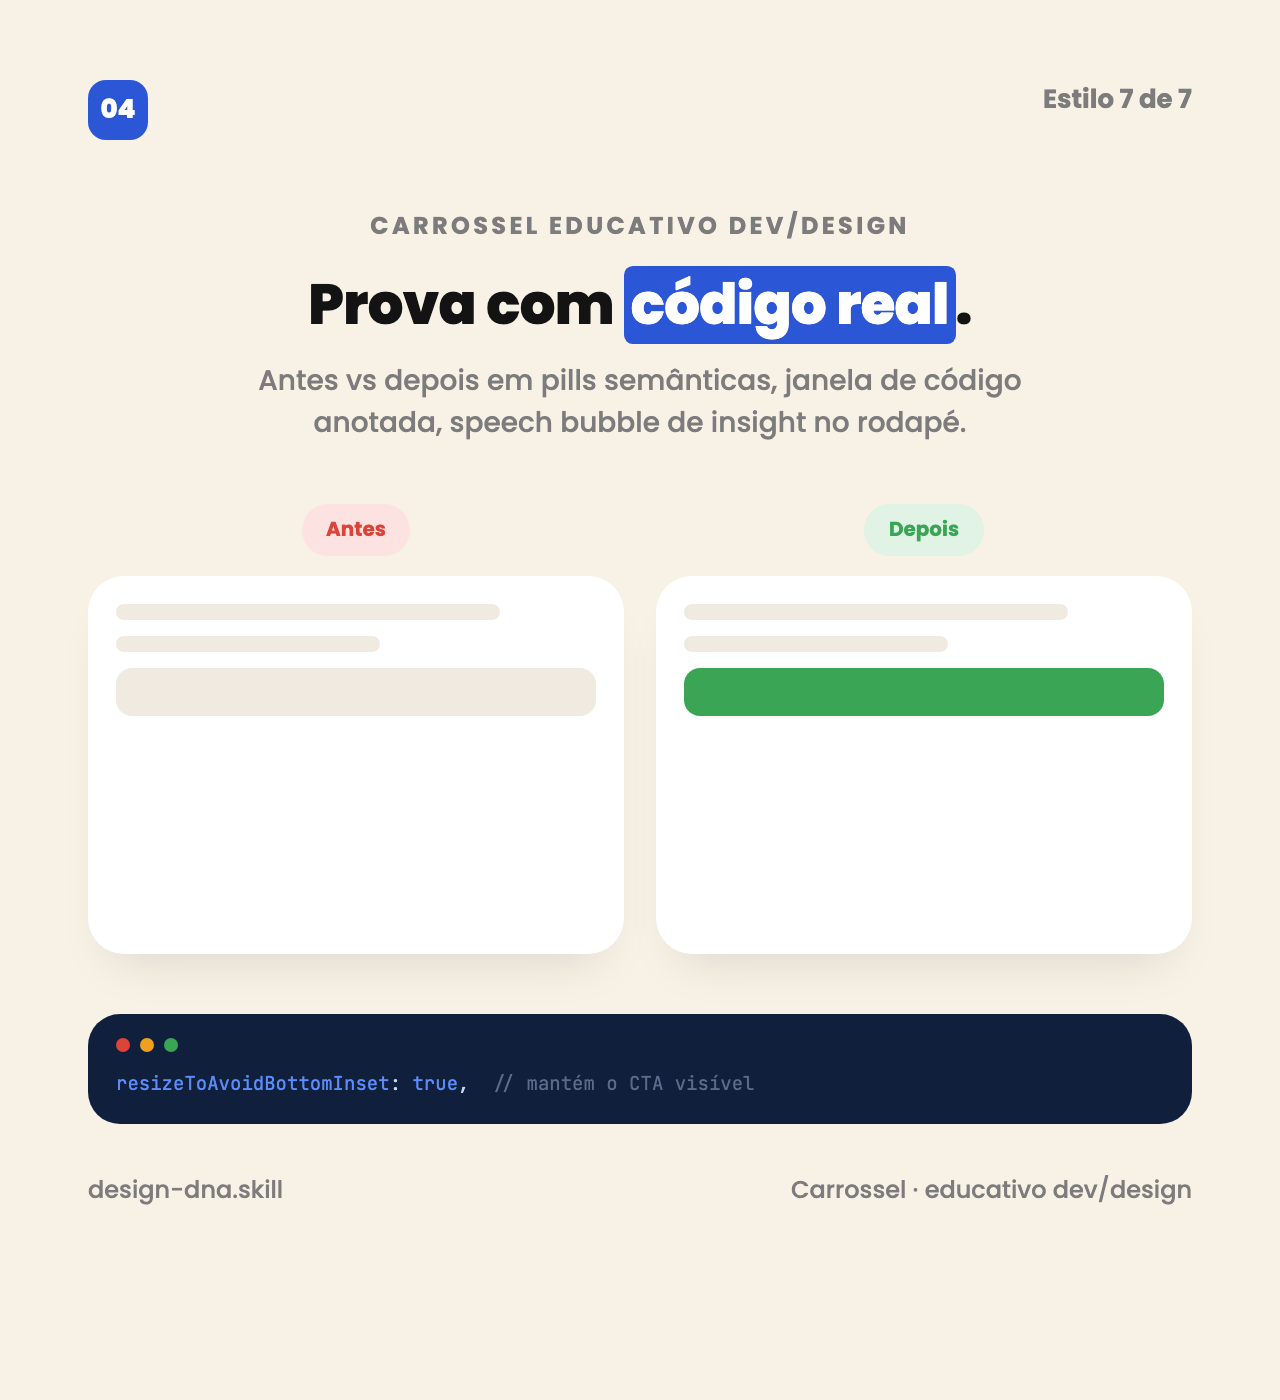
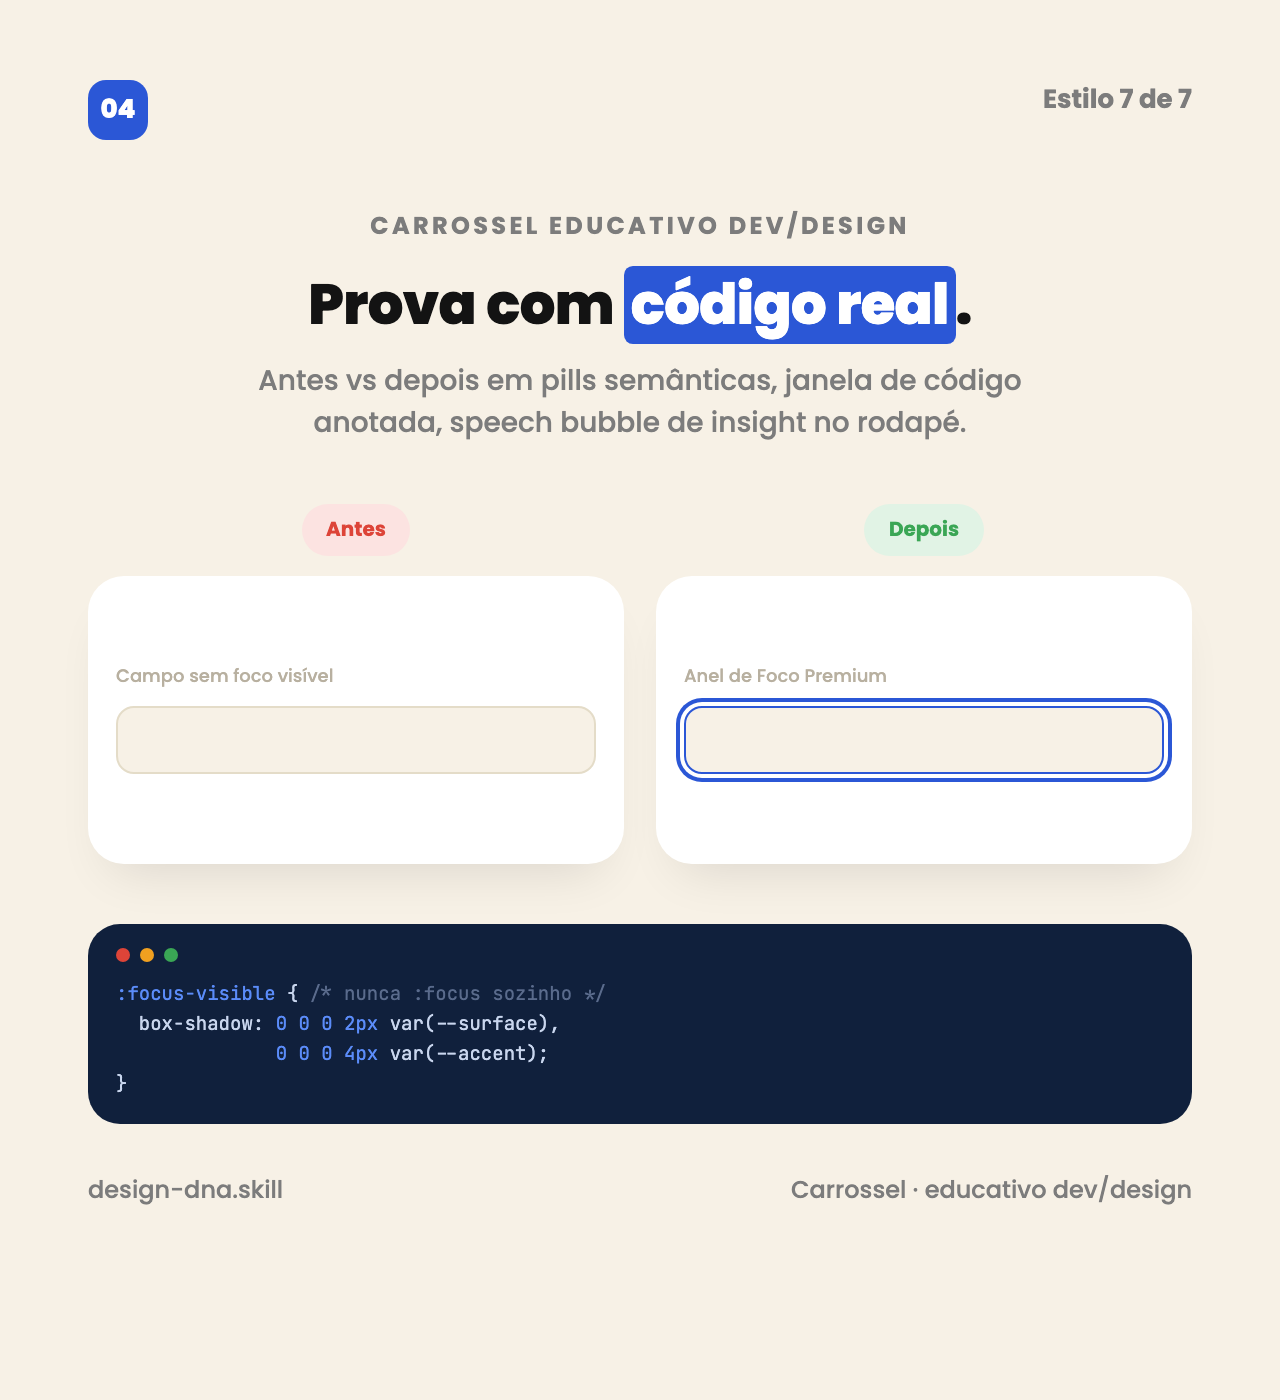
Add anti-copy rule and live component gallery
SKILL.md ganha uma regra explícita: as fichas de posts originais em
references/<estilo>.md são citação por trás dos tokens, nunca conteúdo
a recriar. Toda prova de capacidade da skill deve extrair a técnica e
aplicar a um cenário real e original, com código de verdade por trás.

README agora lidera com 6 GIFs animados (Playwright + ffmpeg, sem
crédito de geração gasto) de componentes reais de
references/componentes-premium.md — Botão Assinatura, Anel de Foco,
Esqueleto Espelho, Toast Empilhado, Spotlight de Borda, Bento Grid —
cada um aplicado num contexto novo, não numa recriação de referência.

Também corrige dois cards do galeria de estilos (dev-tutorial-code-
showcase e dev-carousel-explainer) que mimetizavam quase literalmente
o conteúdo de posts de referência específicos (upload 68%, checkout
Flutter); agora usam exemplos originais com código real da skill.

diff --git a/README.md b/README.md
@@ -2,7 +2,7 @@
 
 ![design-dna](assets/banner.png)
 
-**Skill do [Claude Code](https://claude.com/claude-code)** com o DNA de design pessoal do William: 7 registros visuais, 18 livros de receita, regras de qualidade e anti-slop, prontos pra qualquer agente desenhar peças premium sem precisar de direção manual.
+**Skill do [Claude Code](https://claude.com/claude-code)** com o DNA de design pessoal do William: 7 registros visuais, 19 componentes de código real (motion, estados, acessibilidade), regras de qualidade e anti-slop, prontos pra qualquer agente desenhar peças premium sem precisar de direção manual.
 
 </div>
 
@@ -31,9 +31,79 @@ Depois de instalado, a skill é acionada automaticamente sempre que o pedido env
 
 ---
 
+## Componentes vivos
+
+Os carrosséis e reels que o William manda pra skill não são pra recriar a capa ou o produto fictício do post: são pra ela aprender a **técnica** por trás (o motion, o estado, o timing) e devolver essa técnica como código reaproveitável, aplicado num contexto real e original, misturando o que aprendeu no estilo dele. É a regra anti-cópia do `SKILL.md`.
+
+Os 6 GIFs abaixo são prova disso: cada um roda o código real de `references/componentes-premium.md`, capturado em vídeo de verdade (Playwright gravando a interação, sem crédito de geração de imagem gasto), aplicado num componente novo que não existe em nenhuma referência.
+
+<table>
+<tr><td width="50%" align="center">
+
+![Botão Assinatura](assets/components/button.gif)
+
+**Botão Assinatura**
+<br><sub>idle → progresso → checkmark que se desenha (`pathLength`, sem largura variando)</sub>
+
+</td><td width="50%" align="center">
+
+![Anel de Foco Premium](assets/components/focus.gif)
+
+**Anel de Foco Premium**
+<br><sub>anel duplo em `box-shadow`, só em `:focus-visible`, nunca em clique de mouse</sub>
+
+</td></tr>
+<tr><td width="50%" align="center">
+
+![Esqueleto Espelho](assets/components/skeleton.gif)
+
+**Esqueleto Espelho**
+<br><sub>placeholder na forma exata do conteúdo final, shimmer de dois tons, nunca arco-íris</sub>
+
+</td><td width="50%" align="center">
+
+![Toast Empilhado](assets/components/toast.gif)
+
+**Toast Empilhado (estilo Sonner)**
+<br><sub>pilha com profundidade, expande no hover/foco, sem `@keyframes` (por isso não "pula")</sub>
+
+</td></tr>
+<tr><td width="50%" align="center">
+
+![Anel de Spotlight na Borda](assets/components/spotlight.gif)
+
+**Anel de Spotlight na Borda**
+<br><sub>`mask-composite` acende só a borda perto do cursor, sem iluminar o campo inteiro</sub>
+
+</td><td width="50%" align="center">
+
+![Bento Grid Animado](assets/components/bento.gif)
+
+**Bento Grid Animado**
+<br><sub>cascata de entrada por `IntersectionObserver`, pesos desiguais, nunca 3 cards clones</sub>
+
+</td></tr>
+</table>
+
+```css
+/* trecho real do Botão Assinatura, references/componentes-premium.md */
+.btn[data-state="success"] .btn-check__circle {
+  animation: desenhar 500ms cubic-bezier(.65,0,.35,1) forwards;
+}
+.btn[data-state="success"] .btn-check__mark {
+  /* delay maior que a duração do círculo, senão os dois desenham
+     juntos e perde a leitura de confirmação em duas etapas */
+  animation: desenhar 350ms cubic-bezier(.34,1.56,.64,1) 450ms forwards;
+}
+```
+
+Cada receita completa (HTML + CSS + JS, fonte citada, armadilhas documentadas, variante Framer Motion) está em `references/componentes-premium.md`, junto com outras 13 no mesmo padrão: contador numérico, barra de progresso via `scroll()`, validação inline, blur-up de imagem, marquee de logos, feed cíclico, grade presa com zoom de scroll e mais.
+
+---
+
 ## Os 7 registros visuais
 
-Cada peça usa **um estilo por vez**, escolhido pela tabela de decisão do `SKILL.md`. As imagens abaixo são demos reais renderizadas a partir das regras de cada estilo (paleta, tipografia, componente assinatura), não mockups genéricos.
+Cada peça usa **um estilo por vez**, escolhido pela tabela de decisão do `SKILL.md`. As imagens abaixo mostram paleta, tipografia e composição de cada registro, não conteúdo pra copiar: a "ficha" de cada post de referência dentro de `references/<estilo>.md` existe como citação por trás do token, nunca como layout a recriar (ver a regra anti-cópia no `SKILL.md`).
 
 <table>
 <tr><td width="50%">
@@ -193,7 +263,8 @@ O William rejeita explicitamente o uniforme de página genérica de IA. Reprovam
 
 ```
 SKILL.md                  # porta de entrada: direção, tabela de estilos, regras globais, checklist
-assets/                    # banner + demos visuais de cada um dos 7 estilos (este README)
+assets/                    # banner + demos visuais dos 7 estilos (este README)
+  └─ components/            # GIFs dos componentes vivos, gravados de componentes-premium.md
 references/                # 18 livros de receita, lidos sob demanda conforme a peça
   ├─ apple-premium.md, dark-ui-lab.md, soft-neumorphism-light.md,
   │  editorial-minimal-mockup.md, app-flow-showcase.md,

diff --git a/SKILL.md b/SKILL.md
@@ -31,6 +31,12 @@ Ao escolher, **leia o arquivo de referência do estilo** antes de desenhar: ele 
 
 Se a peça não se encaixa em nenhuma linha da tabela, escolha o polo (light ou dark) pelo contexto do produto e aplique as regras globais abaixo. Elas são o DNA; os estilos são temperos.
 
+### Regra anti-cópia: técnica, não conteúdo
+
+As "fichas dos posts originais" dentro de cada `references/<estilo>.md` (a seção "Referências visuais", com handle, paleta observada e "vale roubar") são **citação e evidência** por trás dos Tokens do estilo, nunca um post a ser recriado. O William manda dezenas de carrosséis e reels pra ensinar a skill a fazer ESSE TIPO de design, misturando o que aparece nelas no estilo próprio dele. O objetivo nunca é reproduzir a capa, a copy, o produto fictício ou o layout exato de um post específico.
+
+Isso vale em dobro pra qualquer exemplo, demo ou prova de capacidade que a própria skill produza (README, showcase, pitch pra terceiros): **extraia a técnica** (a receita de motion, o componente, a composição) e **aplique a um cenário real e original**, nunca "recrie a referência com nome trocado". Se o post de origem mostrou um botão de upload com barra de progresso, a prova de capacidade não é remontar aquele upload, é usar a MESMA técnica (estado idle → progresso → sucesso, `pathLength`, easing certo) num componente novo, ligado a um produto ou contexto real, de preferência já com o código de `references/componentes-premium.md` / `references/motion*.md` por trás. Código > screenshot estático: sempre que o objetivo for demonstrar uma técnica de motion/interação, prefira uma prova animada (GIF, vídeo, página viva) a uma imagem parada, e mostre o trecho de código relevante junto.
+
 ## Antes de desenhar: alinhe o estilo com o William
 
 Essa skill vai cobrir cada vez mais formato: SaaS, captura, venda, ecommerce, e o que mais aparecer. A tabela acima cobre os casos mais comuns, mas não é exaustiva, e o pior erro nesses casos novos é decidir sozinho e só aparecer com o resultado pronto no final. Regra: **narre a escolha antes de desenhar, não só depois.**